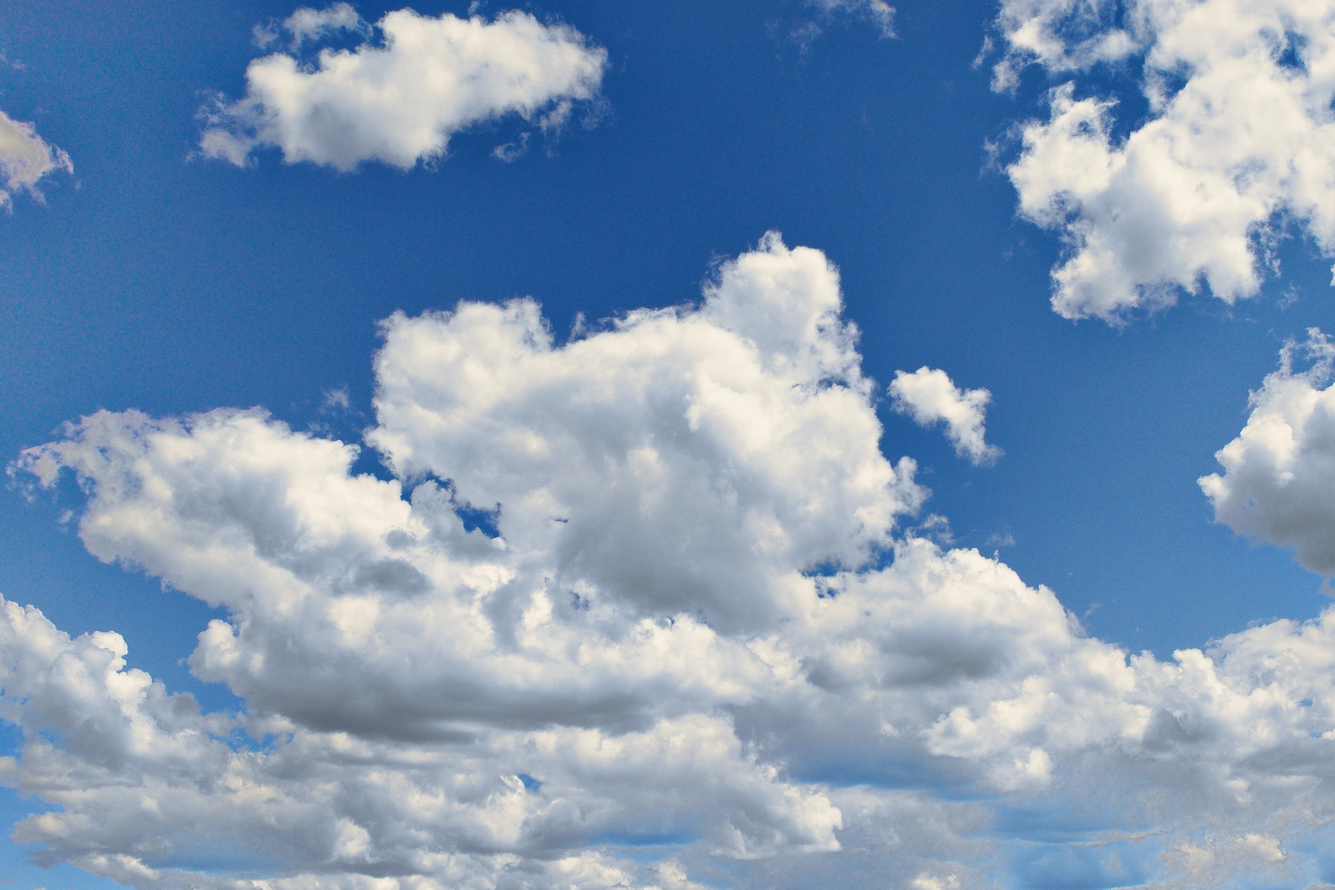
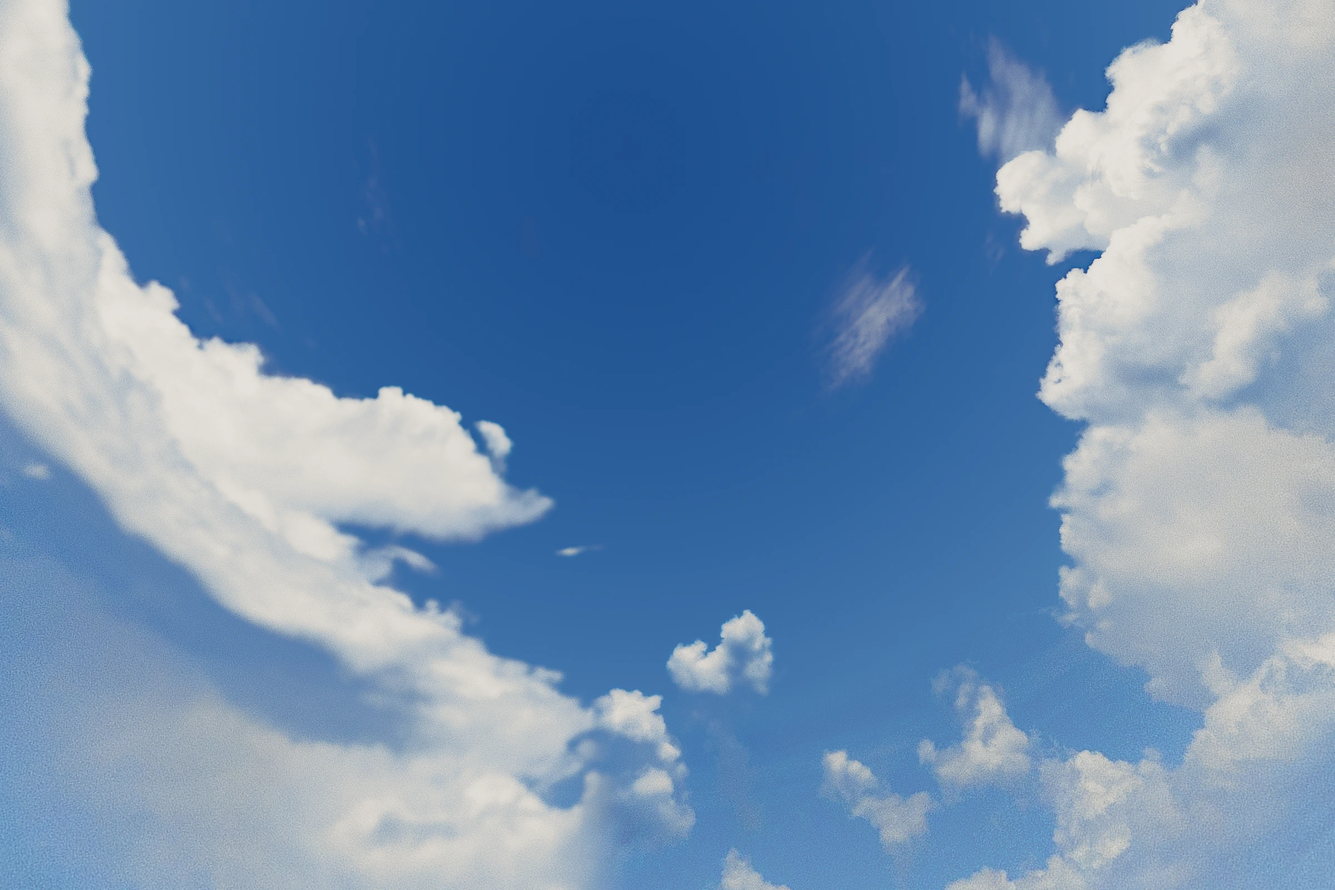
Lab: climb develop round 2
Claude-Session: https://claude.ai/code/session_01RqENhngNCzDFmJWDZueXGV

diff --git a/tools/depth/bakes/develop/bake.py b/tools/depth/bakes/develop/bake.py
@@ -4,6 +4,7 @@
     python3 -I bake.py --fill-only <out_dir> [work_dir]
     python3 -I bake.py --grade-only <out_dir> [work_dir]
     python3 -I bake.py --reach <out_dir> [work_dir]
+    python3 -I bake.py --sky <out_dir> [work_dir]
 
 plate.webp and fill.webp ship graded (grade_sky): the sky re-graded radially
 round the zenith the pole points at, deep cobalt there opening to a paler
@@ -495,8 +496,13 @@ SKY_SRC = os.environ.get("SKY_SRC", "/tmp/claude-0/climb/develop/work/cc0/big.jp
 SKY_WIN = tuple(float(v) for v in os.environ.get("SKY_WIN", "0.5,0.5,1.0").split(","))
 SKY_FLIP = os.environ.get("SKY_FLIP", "0") == "1"
 TOP = float(os.environ.get("TOP", "0.9"))
-SHADE_COL = _hex(os.environ.get("SHADE_COL", "#8aa6c8"))
-SHADE = float(os.environ.get("SHADE", "0.7"))
+SHADE_COL = _hex(os.environ.get("SHADE_COL", "#76a6d4"))
+SHADE = float(os.environ.get("SHADE", "0.85"))
+SHADE_LIFT = float(os.environ.get("SHADE_LIFT", "0.2"))
+SKY_GAIN = float(os.environ.get("SKY_GAIN", "0"))
+SKY_EST = float(os.environ.get("SKY_EST", "10"))  # the clear sky estimate's blur, quarter-size px
+SKY_LC = float(os.environ.get("SKY_LC", "0.8"))
+SKY_LC_PX = float(os.environ.get("SKY_LC_PX", "6"))
 
 
 def _sky_window(path):
@@ -517,7 +523,161 @@ def _sky_window(path):
     return s2l(sub[:, :, ::-1].astype(np.float32) / 255)
 
 
-def regrade_cumulus(P):
+# The sky looked up into. A cumulus photograph taken at eye level, put in
+# flat behind the pole, is a backdrop: its curds are all one size and face
+# the camera, while everything in the structure converges on the zenith.
+# Seen from the foot of a pole, a summer sky is a dome: clear cobalt
+# overhead, the towers standing round its rim, their bases at the frame's
+# edges and their tops leaning in towards the vanishing point the pole runs
+# into, foreshortened and stretched outward as they near the horizon.
+#
+# So the sky is re-plated by a radial look-up round the zenith (ZEN, F_PX):
+# each print pixel's angle from the zenith ray (theta) and its azimuth round
+# it. The azimuth is kept; the radius is stereographic, v = ln tan(theta / 2),
+# which is what turns an eye-level strip of sky (the horizon along its foot)
+# into a dome conformally: a cloud keeps its shape, only its size changes,
+# growing from nothing at the zenith to the full photograph at the frame's
+# edge, where the rectilinear lens stretches it further outward. The source is
+# one or more horizon photographs of congestus (SKY_SRCS), each the half of
+# the azimuth either side of the pole: their horizon rows sit at SKY_VH (just
+# beyond the furthest corner, so the frame shows no sea), one photo width per
+# half turn. The two halves meet under the pole (it hides the join) and in
+# the short run above the zenith, crossfaded over a few degrees.
+# Sampled from a pyramid by the map's own local scale, so the towers do not
+# alias where they shrink towards the zenith; and taken a touch soft (SKY_SOFT
+# px), so the finished print shows cloud, not a sharpened photograph.
+#   SKY_SRCS  path:horizon_row[:flip], one per half (left of the pole first):
+#             Sandgate foreshore P1090276 (left) and P1090330 (right), CC0,
+#             Wikimedia Commons, at 3840 px (see experiment.json)
+SKY_SRCS = os.environ.get("SKY_SRCS", "/tmp/claude-0/climb/develop/work/r2s/src/s11.jpg:2420,/tmp/claude-0/climb/develop/work/r2s/src/s12.jpg:2570")
+SKY_VH = float(os.environ.get("SKY_VH", "-0.52"))
+PHI_POLE = np.radians(float(os.environ.get("PHI_POLE", "3.4")))  # the pole's axis, from straight down
+SKY_SOFT = float(os.environ.get("SKY_SOFT", "0.4"))
+SKY_ZOOM = float(os.environ.get("SKY_ZOOM", "1.2"))  # >1: towers larger (the middle 1/ZOOM of each photo spans its half turn)
+# The towers are kept, and the sky above them cleared: a horizon photograph's
+# upper sky (here cirrostratus ripples) wound round the zenith reads as a
+# zoom-blur swirl, and a sky seen straight up is clear cobalt overhead. Thin
+# cloud is kept up to SKY_KEEP[0] above the horizon and gone by SKY_KEEP[1]
+# (in photo widths / pi, the photo's own scale), a dense, bright mass (a
+# tower, SKY_DENSE in linear luminance) up to SKY_KEEP_TOWER; past them the
+# photo's own clear sky (_clear_sky), so the regrade's radial cobalt has a
+# clean field to ride on.
+SKY_KEEP = tuple(float(x) for x in os.environ.get("SKY_KEEP", "0.3,0.6").split(","))
+SKY_KEEP_TOWER = tuple(float(x) for x in os.environ.get("SKY_KEEP_TOWER", "1.0,1.3").split(","))
+SKY_DENSE = tuple(float(x) for x in os.environ.get("SKY_DENSE", "0.3,0.5").split(","))
+# The Sandgate frames are shot cool (their sunlit tops sit at ~#71909c):
+# each is balanced so its brightest cloud is neutral, and exposed so that
+# cloud lands at SKY_EXP (linear), before the regrade's shoulder.
+SKY_EXP = float(os.environ.get("SKY_EXP", "0.88"))
+
+
+def _clear_sky(src, hrow):
+    """The photo's clear sky with its cloud taken out (linear, at 1/8 size):
+    every pixel that is not open blue (whiteness over 0.3) or is under the
+    horizon is a hole, filled by push-pull from the open sky round it in log
+    light and smoothed. Its corners' vignetting and the haze round a tower's
+    foot are in it, so the cloud's share of a pixel is measured against the
+    sky actually behind it."""
+    sh, sw = src.shape[:2]
+    q = 8
+    sm = cv2.resize(src, (sw // q, sh // q), interpolation=cv2.INTER_AREA)
+    wh = sm.min(2) / np.maximum(sm.max(2), 1e-4)
+    ok = (wh < 0.3).astype(np.float32)
+    ok[int(hrow) // q - 2:] = 0
+    ok = cv2.erode(ok, disk(3))
+    lg = np.log(np.maximum(sm, 1e-4)) * ok[..., None]
+    c = np.exp(pushpull(lg, ok))
+    c = cv2.GaussianBlur(c, (0, 0), 6)
+    return cv2.resize(c, (sw, sh), interpolation=cv2.INTER_CUBIC).astype(np.float32)
+
+
+def _sky_lookup(spec):
+    h, w = H, W
+    th = zenith_angle(h, w).astype(np.float64)
+    v = np.log(np.tan(np.maximum(th, 1e-4) / 2))
+    yy, xx = np.mgrid[0:h, 0:w].astype(np.float64) + 0.5
+    phi = np.arctan2(-(xx - ZEN[0]), yy - ZEN[1]) - PHI_POLE
+    phi = (phi + np.pi) % (2 * np.pi) - np.pi  # 0 along the pole, + to its left
+    halves = [s.split(":") for s in spec.split(",")]
+    if len(halves) == 1:
+        halves = halves * 2
+    acc = np.zeros((h, w, 3), np.float64)
+    wsum = np.zeros((h, w), np.float64)
+    sacc = np.zeros((h, w, 3), np.float64)
+    hgt = np.zeros((h, w), np.float64)
+    d0, d1 = np.radians(4), np.radians(12)
+    near_top = np.abs(phi) > np.pi / 2
+    tphi = np.where(phi > 0, phi - np.pi, phi + np.pi)
+    wL = np.where(near_top, smoothstep(-d1, d1, -tphi), smoothstep(-d0, d0, phi))
+    for i, hv in enumerate(halves):
+        path, hrow = hv[0], float(hv[1])
+        flip = len(hv) > 2 and hv[2] == "flip"
+        bgr = cv2.imread(path, cv2.IMREAD_COLOR)
+        if flip:
+            bgr = bgr[:, ::-1]
+        src = s2l(bgr[:, :, ::-1].astype(np.float32) / 255)
+        sh, sw = src.shape[:2]
+        above = src[: int(hrow) - 20]
+        Ys = above @ LUMA
+        top = above[Ys > np.percentile(Ys, 99.0)].mean(0)
+        src = src * (float(top @ LUMA) / top) * (SKY_EXP / float(top @ LUMA))
+        csky = _clear_sky(src, hrow)
+        if SKY_SOFT > 0:
+            src = cv2.GaussianBlur(src, (0, 0), SKY_SOFT)
+        s0 = sw / np.pi
+        s = s0 / SKY_ZOOM
+        psi = phi if i == 0 else -phi  # 0 at the pole, pi above the zenith
+        mx = (1 - psi / np.pi) * sw / SKY_ZOOM + (sw - sw / SKY_ZOOM) / 2
+        my = hrow + (v - SKY_VH) * s
+        # the map's local scale (source px per print px) picks a pyramid level
+        gx = np.gradient(mx)
+        gy = np.gradient(my)
+        k = np.sqrt(np.abs(gx[1] * gy[0] - gx[0] * gy[1]))
+        lev = np.clip(np.log2(np.maximum(k, 1e-6)), 0, 7)
+        pyr = [src]
+        for _ in range(8):
+            pyr.append(cv2.pyrDown(pyr[-1]))
+        out = np.zeros((h, w, 3), np.float64)
+        for n in range(8):
+            wn = np.clip(1 - np.abs(lev - n), 0, 1)
+            if not (wn > 0).any():
+                continue
+            sc = 2.0 ** n
+            smp = cv2.remap(pyr[n], ((mx + 0.5) / sc - 0.5).astype(np.float32), ((my + 0.5) / sc - 0.5).astype(np.float32),
+                            cv2.INTER_CUBIC, borderMode=cv2.BORDER_REFLECT_101)
+            out += smp * wn[..., None]
+        clear = cv2.remap(csky, mx.astype(np.float32), np.clip(my, 0, sh - 1).astype(np.float32),
+                          cv2.INTER_LINEAR, borderMode=cv2.BORDER_REFLECT_101)
+        print("lookup: balance gains", np.round(float(top @ LUMA) / top, 2))
+        wi = wL if i == 0 else 1 - wL
+        acc += out * wi[..., None]
+        wsum += wi
+        sacc += clear * wi[..., None]
+        # height above the horizon in the photo's own units (one photo width
+        # per half turn), so SKY_KEEP holds whatever SKY_ZOOM is
+        hgt += (v - SKY_VH) * (s / s0) * wi
+        print("lookup:", os.path.basename(path), "rows", int(my.min()), "..", int(my.max()), "of", sh, "scale", round(float(k.min()), 2), "..", round(float(k.max()), 1))
+    out = acc / np.maximum(wsum, 1e-6)[..., None]
+    # thin cloud (the cirrus and the ripples) goes by SKY_KEEP; a dense,
+    # bright mass (a tower) is kept to SKY_KEEP_TOWER, so its top is not cut
+    hgt = hgt / np.maximum(wsum, 1e-6)
+    keep = smoothstep(-SKY_KEEP[1], -SKY_KEEP[0], hgt)
+    Yo = cv2.GaussianBlur((out @ LUMA).astype(np.float32), (0, 0), 3)
+    dense = smoothstep(SKY_DENSE[0], SKY_DENSE[1], Yo).astype(np.float32)
+    dense = cv2.GaussianBlur(cv2.dilate(dense, disk(5)), (0, 0), 4)
+    keep_t = smoothstep(-SKY_KEEP_TOWER[1], -SKY_KEEP_TOWER[0], hgt)
+    keep = np.maximum(keep, dense * keep_t)[..., None]
+    # the clear sky behind it all, known here (each photo's own, cloud taken
+    # out), so the regrade need not estimate it round the cloud (an estimate
+    # pushed in from the open sky left a pale halo round every mass). Where
+    # the cloud is cleared the sky is exactly this, and the regrade's swap
+    # (P + T - S) lands exactly on its cobalt: no seam where the halves meet.
+    S = (sacc / np.maximum(wsum, 1e-6)[..., None]).astype(np.float32)
+    clear = S
+    return np.clip(out * keep + clear * (1 - keep), 0, 1).astype(np.float32), np.maximum(S, 1e-4)
+
+
+def regrade_cumulus(P, S_known=None):
     """A photographed cumulus sky (linear) graded for the print: cobalt round
     the zenith opening to cyan, sunlit warm-neutral tops, skylight-blue
     undersides. Returns linear."""
@@ -528,10 +688,12 @@ def regrade_cumulus(P):
     lq = cv2.resize(lg, (w // q, h // q), interpolation=cv2.INTER_AREA)
     sq = cv2.resize(s, (w // q, h // q), interpolation=cv2.INTER_AREA)
     wq = (sq > 0.85).astype(np.float32) * sq
-    num = cv2.GaussianBlur(lq * wq[..., None], (0, 0), 20)
-    den = cv2.GaussianBlur(wq, (0, 0), 20)
+    num = cv2.GaussianBlur(lq * wq[..., None], (0, 0), SKY_EST)
+    den = cv2.GaussianBlur(wq, (0, 0), SKY_EST)
     est = pushpull(num / np.maximum(den, 1e-5)[..., None], np.clip(den / 0.25, 0, 1))
     S = np.exp(cv2.resize(est, (w, h), interpolation=cv2.INTER_CUBIC))
+    if S_known is not None:
+        S = S_known
     th = zenith_angle(h, w)
     t = np.clip(th / th.max(), 0, 1) ** GRADE_EASE
     t = t * t * (3 - 2 * t) * 0.35 + t * 0.65
@@ -543,15 +705,27 @@ def regrade_cumulus(P):
     op = np.clip((wh - wS) / np.maximum(0.92 - wS, 1e-3), 0, 1)
     op = smoothstep(0.0, 1.0, op).astype(np.float32)
     # the sky's share swapped: a gain where it is clear, additively under a
-    # thin edge (a gain on a pale edge tints all of its light)
+    # thin edge (a gain on a pale edge tints all of its light). The Sandgate
+    # sky has almost no red, so its gain's red is ~10x, and on every fringe
+    # and wisp that the cloud share misses it went pink: there the swap is
+    # additive throughout (SKY_GAIN 0), the photo's grain riding on the new
+    # blue as an offset rather than a gain.
     clear = (1 - op)[..., None]
     mul = P * (T / S)
     add = np.maximum(P + clear * (T - S), 0.2 * P)
-    k = clear ** 2
+    k = SKY_GAIN * (1 - smoothstep(0.0, 0.25, op))[..., None]
     B = mul * k + add * (1 - k)
-    # The cloud's own light: its luminance, on a shoulder under TOP (sRGB)
-    Y = l2s(np.clip(B @ LUMA, 0, 1))
-    knee = TOP - 0.16
+    # The cloud's own light. Its local contrast is pulled back first, in log
+    # light (LC of the detail over a SKY_LC_PX blur kept, in the cloud only):
+    # a cumulus photographed at a few hundred metres has every curd's edge
+    # crisp, and under the print's film and grain that read as crunchy,
+    # mottled texture. The masses keep their modelling; the curds go soft.
+    Lb = np.log(np.maximum(B @ LUMA, 1e-5)).astype(np.float32)
+    base = cv2.GaussianBlur(Lb, (0, 0), SKY_LC_PX)
+    Lb = Lb + op * (SKY_LC - 1) * (Lb - base)
+    # then on a shoulder under TOP (sRGB)
+    Y = l2s(np.clip(np.exp(Lb), 0, 1))
+    knee = TOP - 0.2
     Ys = np.where(Y < knee, Y, knee + (TOP - knee) * np.tanh((Y - knee) / (TOP - knee)))
     Yl = s2l(Ys)
     # lit by the sun (warm neutral) at the tops, by the sky (blue) in shade:
@@ -561,7 +735,12 @@ def regrade_cumulus(P):
     top = cv2.GaussianBlur(cv2.dilate(top, disk(36)), (0, 0), 12)
     top = cv2.resize(top, (w, h), interpolation=cv2.INTER_CUBIC)
     rel = Yl / np.maximum(top, 1e-3)
-    shade = (1 - smoothstep(0.35, 0.95, rel)) * SHADE
+    shade = (1 - smoothstep(0.3, 0.95, rel)) * SHADE
+    # A shadowed underside is lit by the whole dome of blue round it, not a
+    # grey: it takes the skylight's hue (SHADE_COL, ~210) at a raised
+    # saturation, and is lifted a little (SHADE_LIFT stops at full shade) so
+    # it sits a mid skylight blue rather than going down into mud.
+    Yl = Yl * np.exp2(SHADE_LIFT * shade * op)
     warm = HI_COL / float(HI_COL @ LUMA)
     blue = SHADE_COL / float(SHADE_COL @ LUMA)
     tint = warm * (1 - shade[..., None]) + blue * shade[..., None]
@@ -695,7 +874,9 @@ if "--sky" in sys.argv:
     fill0 = _read_lin(os.path.join(WK, "orig-fill.webp"))
     a3 = alpha[..., None]
     pm = np.minimum(np.maximum(plate0 - (1 - a3) * fill0, 0), a3) * (a3 > 0.004)
-    sky = regrade_cumulus(_sky_window(SKY_SRC))
+    raw, S_known = _sky_lookup(SKY_SRCS) if SKY_SRCS else (_sky_window(SKY_SRC), None)
+    save8(os.path.join(WK, "p-sky-raw.png"), l2s(raw)[:, :, ::-1])
+    sky = regrade_cumulus(raw, S_known)
     plate = np.clip(pm + (1 - a3) * sky, 0, 1)
     write_srgb(os.path.join(OUT, "plate.webp"), plate, 11)
     write_srgb(os.path.join(OUT, "fill.webp"), sky, 12)
